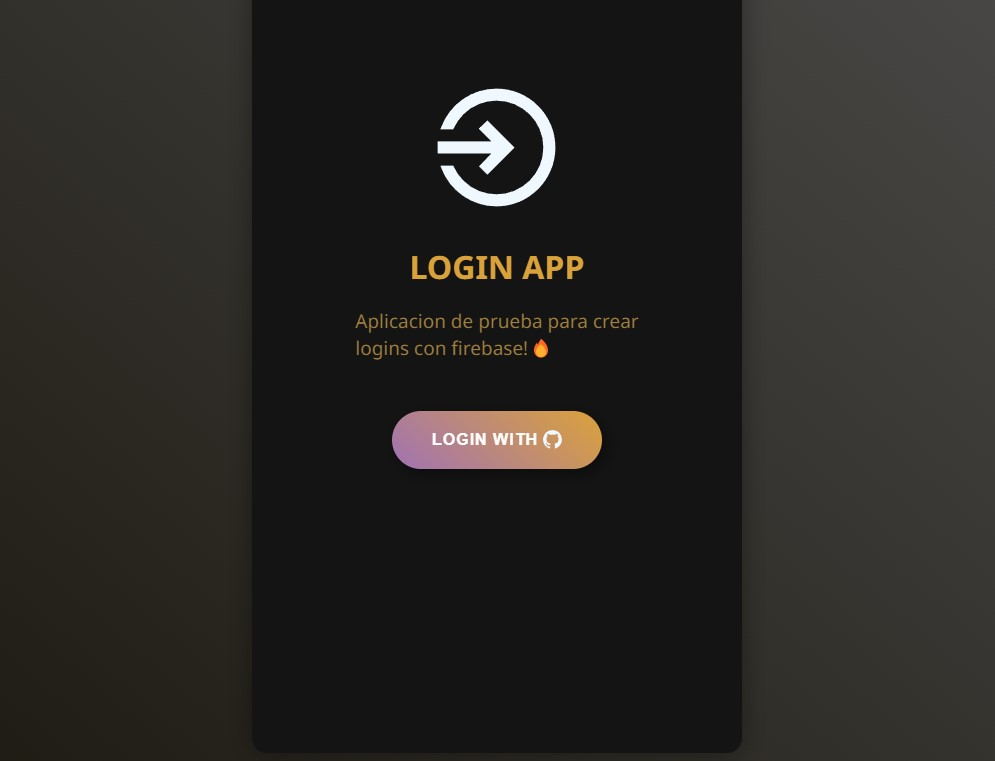
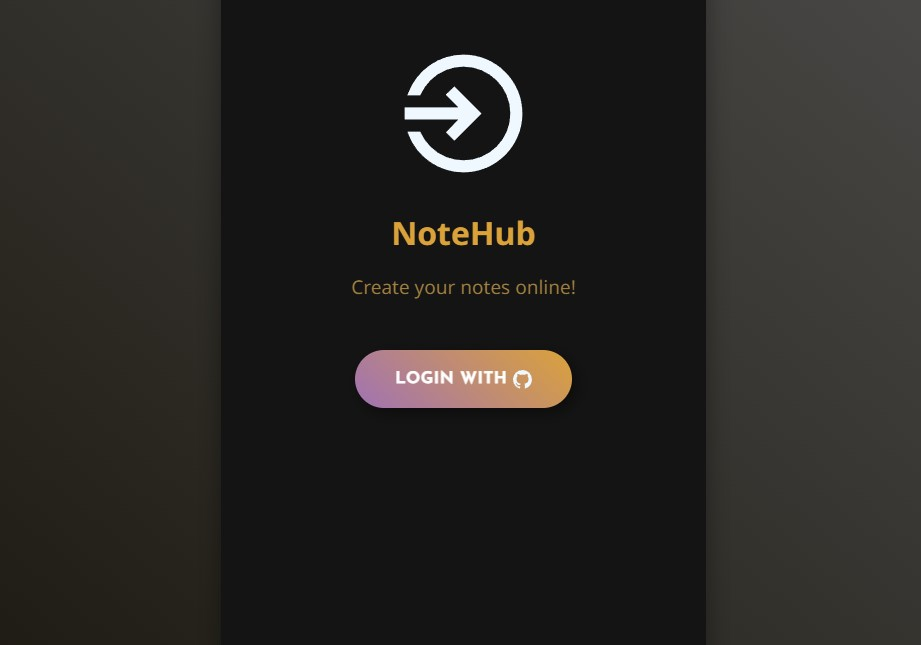
portfolio noteHub

diff --git a/src/components/porfolioCards.jsx b/src/components/porfolioCards.jsx
@@ -95,14 +95,14 @@ export default function PorfolioCards() {
           </a>
         </div>
       </div>
-      <div className="portfolio-card-container LoginAPP closed">
+      <div className="portfolio-card-container NoteHub closed">
         <button onClick={closeCards}>
           Cerrar <IoMdCloseCircle />{" "}
         </button>
         <div className="portfolio-card">
           <p>
-            Login APP es una mini aplicacion con diseño "mobile only", creada para experimentar con varias
-            tecnologias y crear mi primer inicio de sesion mediante firebase.
+            NoteHub es una aplicacion con diseño "mobile only", creada para experimentar con varias
+            tecnologias y crear mi primer inicio de sesion y database mediante firebase.
             Esta fue creada utilizando las siguientes tecnologias:
           </p>
           <ul>

diff --git a/src/components/portfolio.jsx b/src/components/portfolio.jsx
@@ -13,8 +13,8 @@ export default function Portfolio() {
     document.querySelector(".buttonCreator").classList.remove("closed");
   };
 
-  const openLoginAPPCard = () => {
-    document.querySelector(".LoginAPP").classList.remove("closed");
+  const openNoteHubCard = () => {
+    document.querySelector(".NoteHub").classList.remove("closed");
   };
 
   return (
@@ -41,12 +41,12 @@ export default function Portfolio() {
           </h3>
         </div>
 
-        <div className="portfolio-item" onClick={openLoginAPPCard}>
+        <div className="portfolio-item" onClick={openNoteHubCard}>
           <span>
-            <img src={loginAPPImg} alt="Login APP" />
+            <img src={loginAPPImg} alt="NoteHub" />
           </span>
           <h3>
-            Login <b>APP</b>
+            Note<b>Hub</b>
           </h3>
         </div>
       </div>
